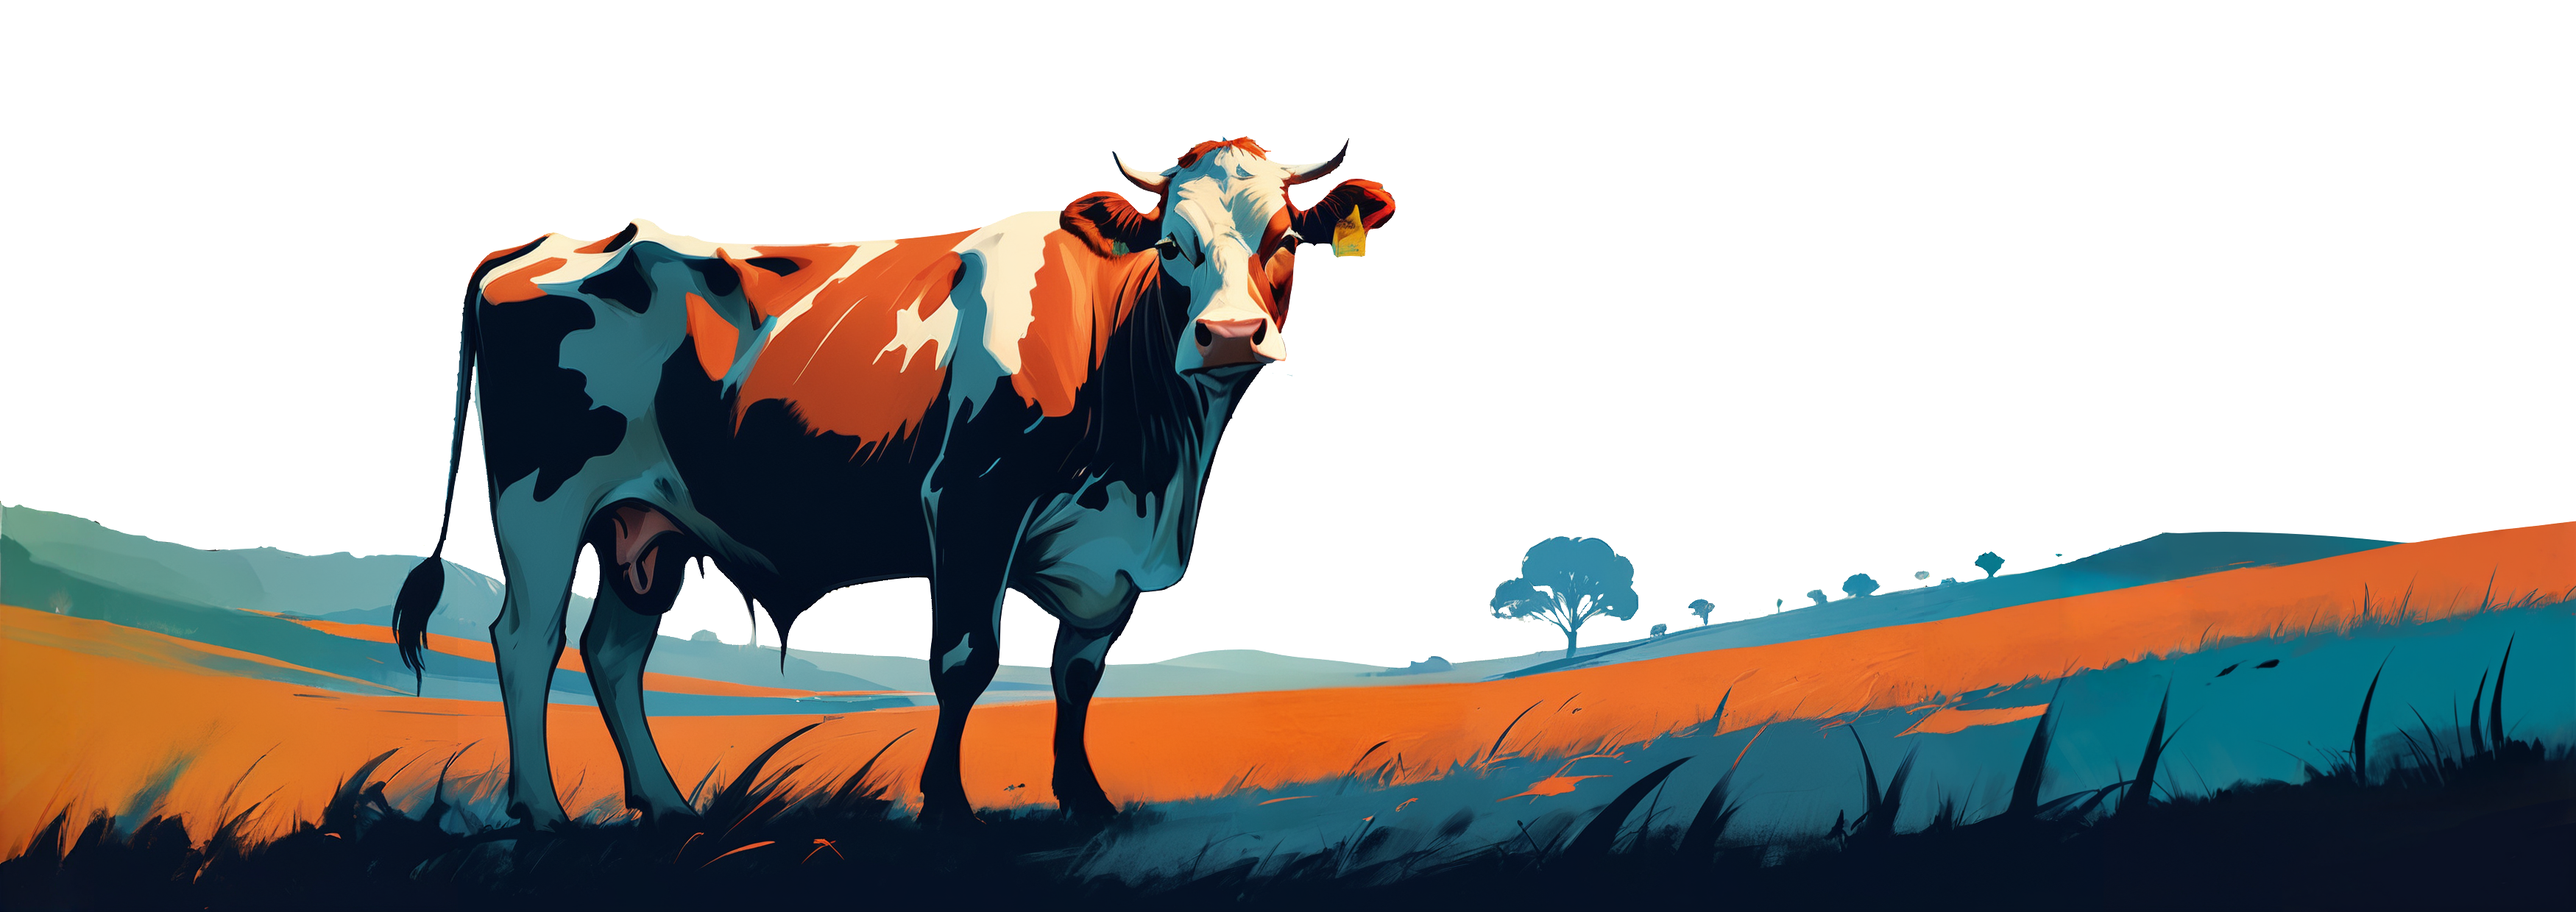
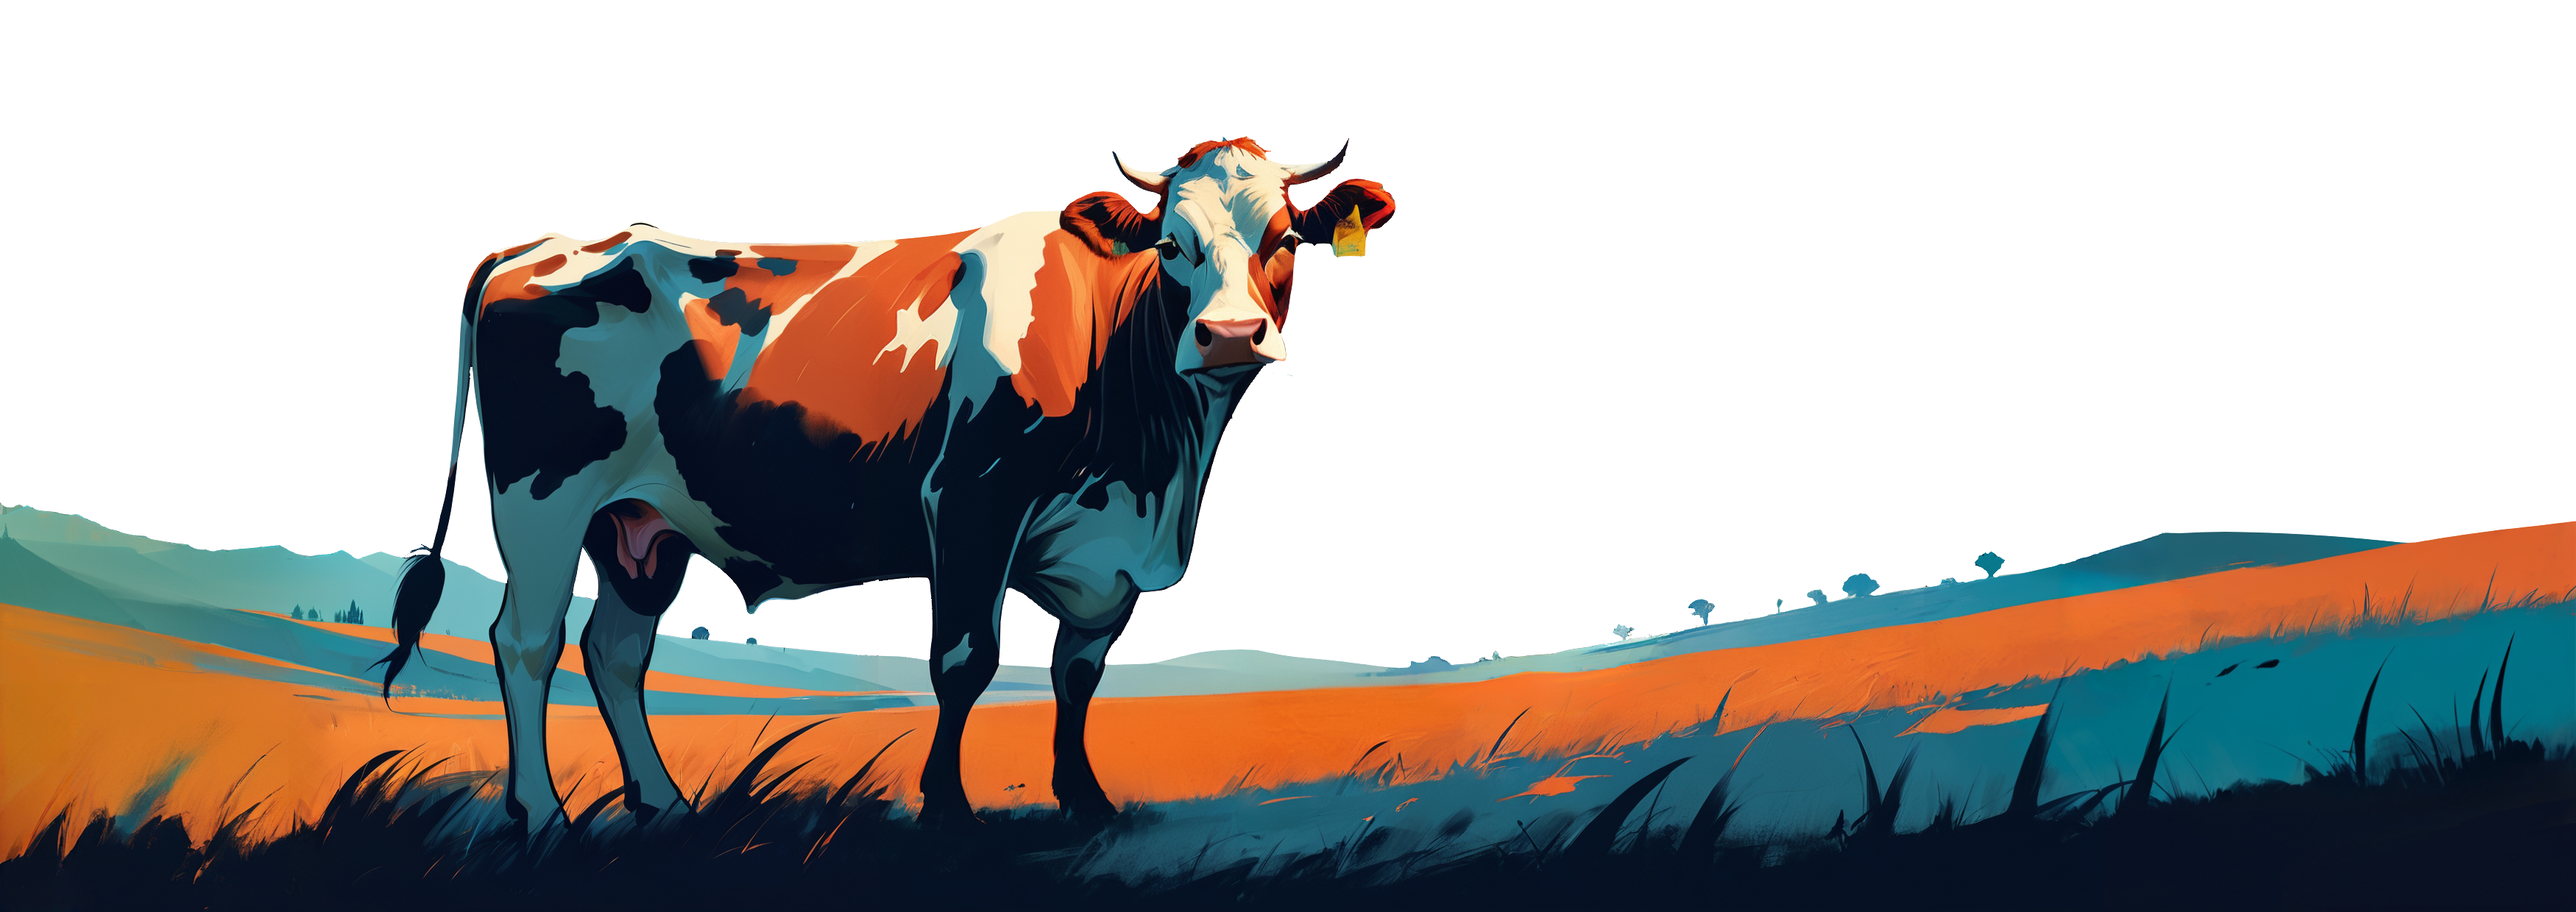
fix: update redirect path from jungle to cow in app routes

diff --git a/src/app/app.routes.ts b/src/app/app.routes.ts
@@ -3,7 +3,7 @@ import { Routes } from '@angular/router';
 export const routes: Routes = [
     {
         path: '',
-        redirectTo: '/jungle',
+        redirectTo: '/cow',
         pathMatch: 'full'
     },
     {
